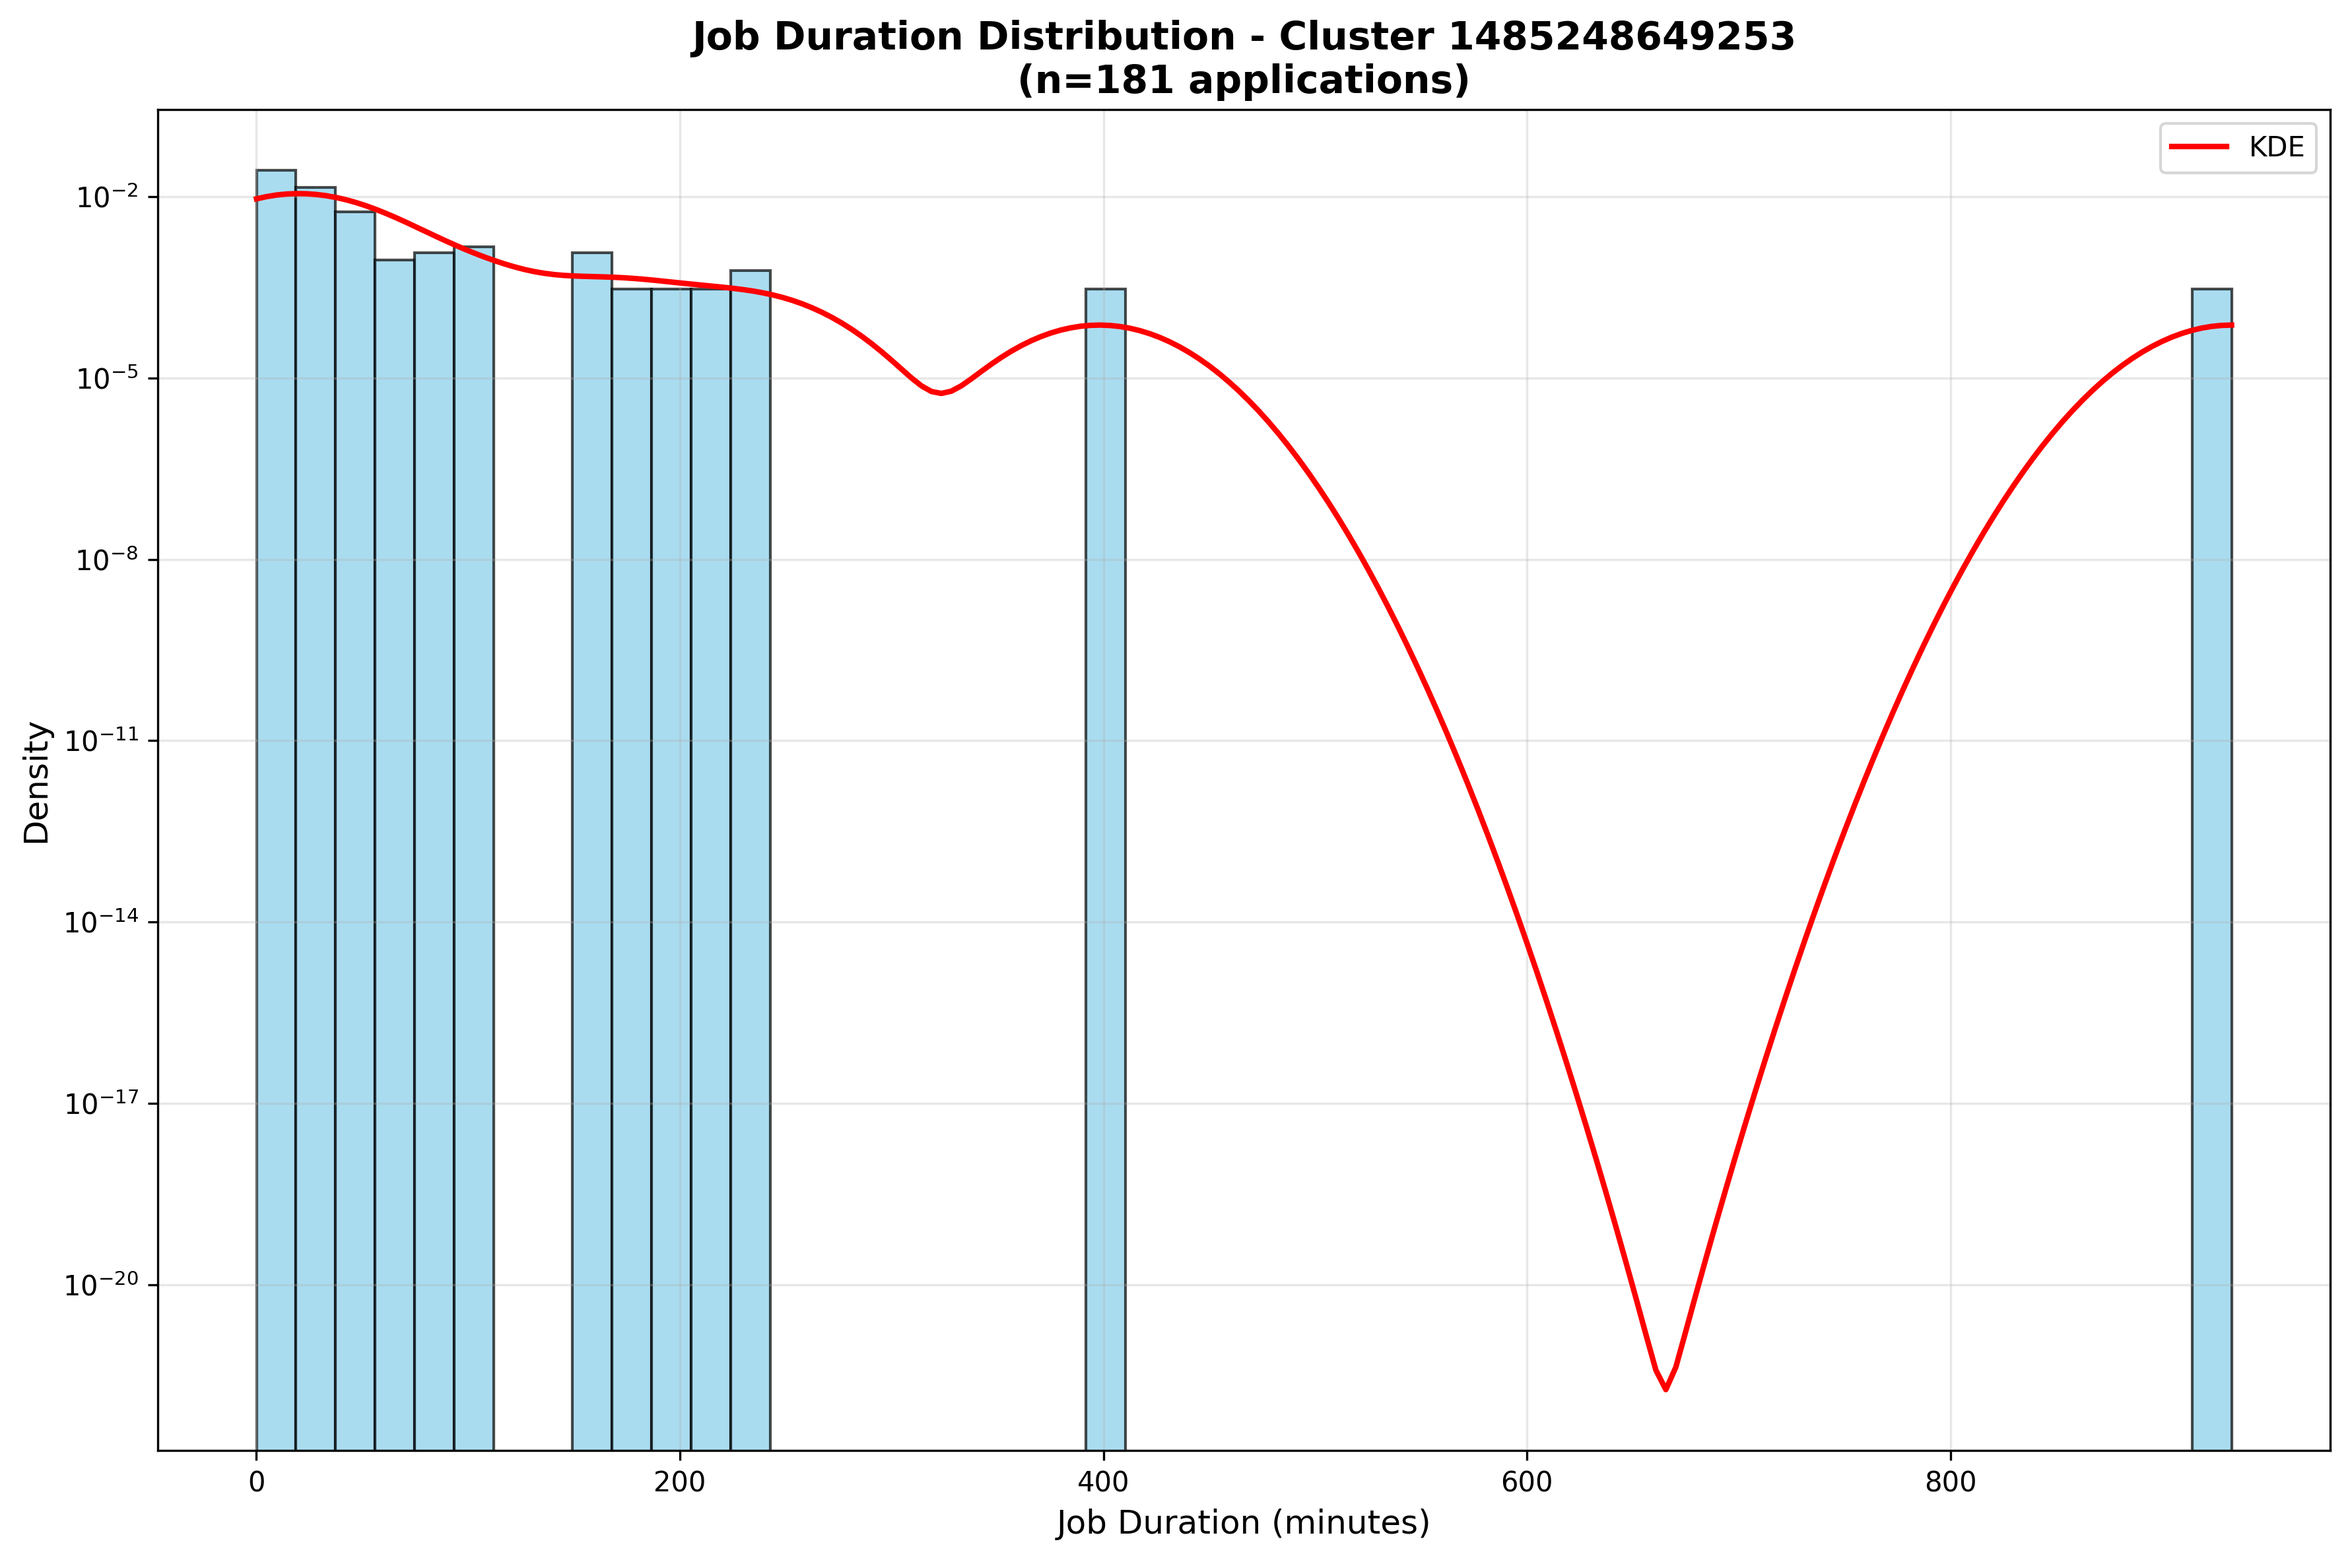
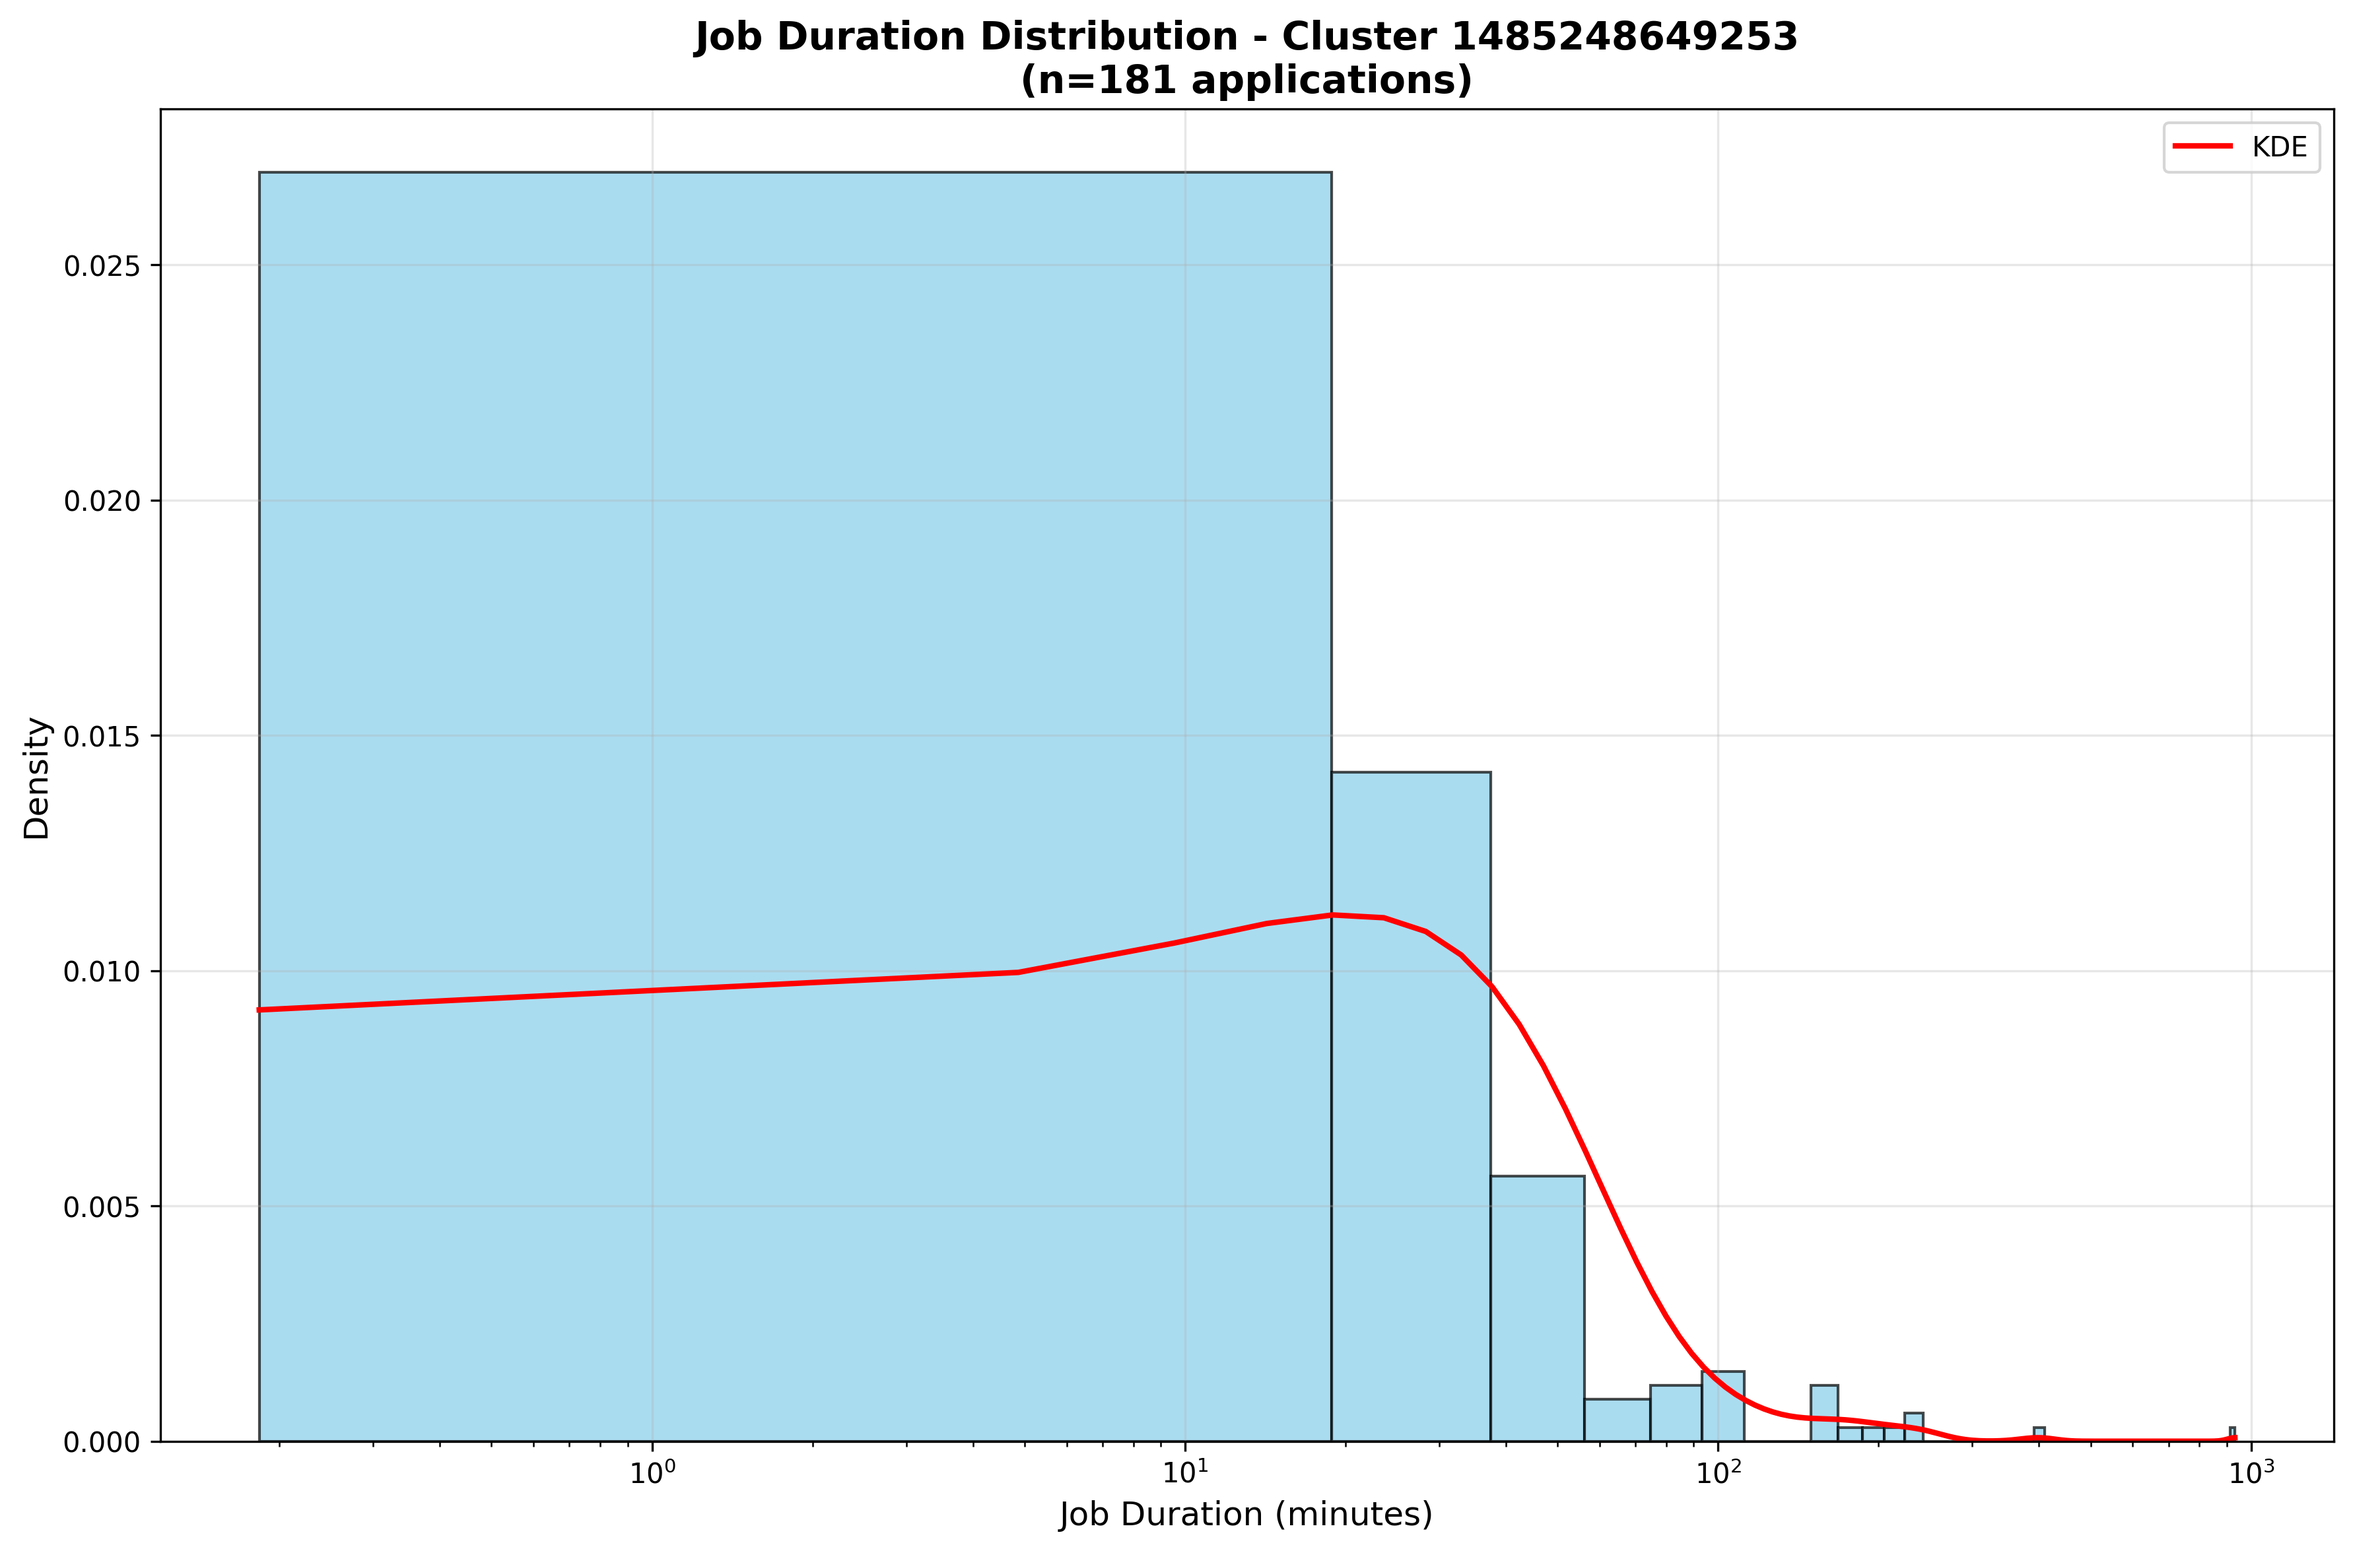
Fix density plot to use log scale on x-axis for job duration

diff --git a/problem2.py b/problem2.py
@@ -270,7 +270,7 @@ def generate_visualizations(cluster_data, timeline_data):
     plt.ylabel('Density', fontsize=12)
     plt.title(f'Job Duration Distribution - Cluster {largest_cluster}\n(n={len(largest_cluster_data)} applications)', 
               fontsize=14, fontweight='bold')
-    plt.yscale('log')  # Use log scale to handle skewed duration data
+    plt.xscale('log')  # Use log scale on x-axis to handle skewed duration data
     plt.grid(alpha=0.3)
     plt.legend()
     plt.tight_layout()
@@ -282,8 +282,8 @@ def regenerate_visualizations():
     """Regenerate visualizations from existing CSV files"""
     try:
         # Read existing CSV files and convert data types
-        cluster_df = pd.read_csv('problem2_cluster_summary.csv')
-        timeline_df = pd.read_csv('problem2_timeline.csv')
+        cluster_df = pd.read_csv('data/output/problem2_cluster_summary.csv')
+        timeline_df = pd.read_csv('data/output/problem2_timeline.csv')
         
         # Convert timestamp strings to datetime objects for duration calculation
         timeline_df['start_time'] = pd.to_datetime(timeline_df['start_time'])
